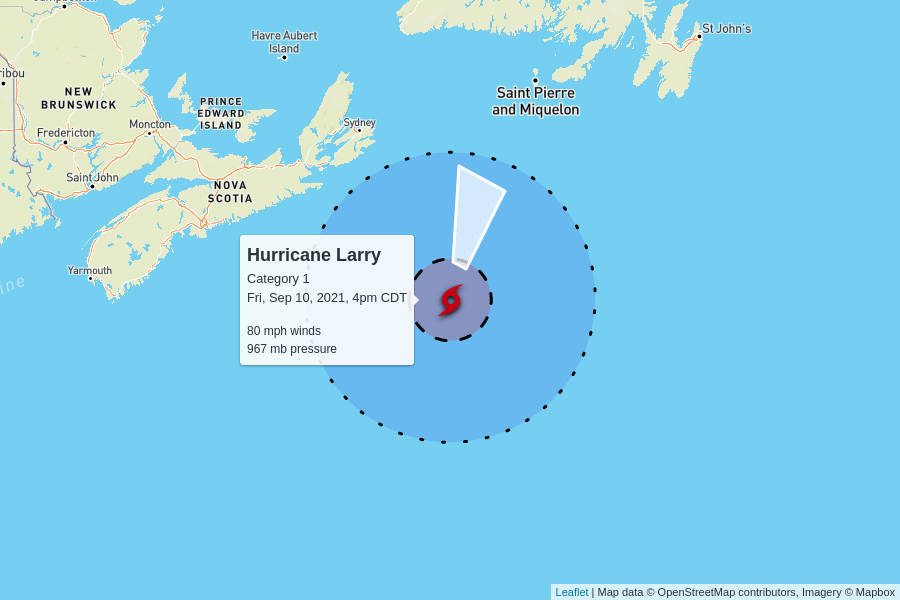
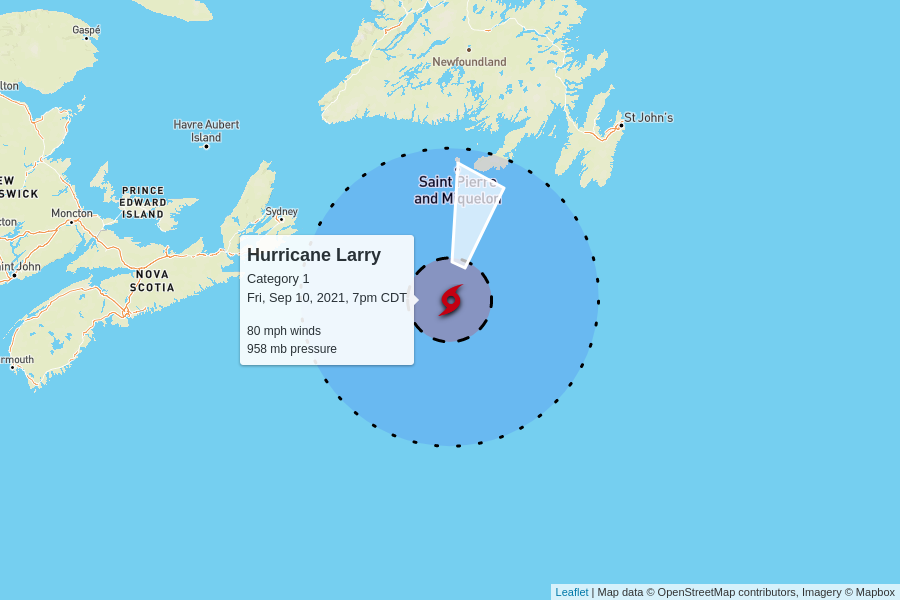
automatic update

diff --git a/docs/index.html b/docs/index.html
@@ -100,7 +100,7 @@
         <td colspan="6" class="storm category-1">
           <h2>
             Hurricane Larry - Category 1
-            <p class="updated">last updated <span data-time>2021-09-10T21:00:00.000Z</span></p>
+            <p class="updated">last updated <span data-time>2021-09-11T00:00:00.000Z</span></p>
           </h2>
         </td>
       </tr>
@@ -116,7 +116,7 @@
       <tr>
         <td class="spacer"></td>
         <td>80 mph</td>
-        <td>967 mb</td>
+        <td>958 mb</td>
         <td>
           35 mph to the north-northeast
           <br/>
